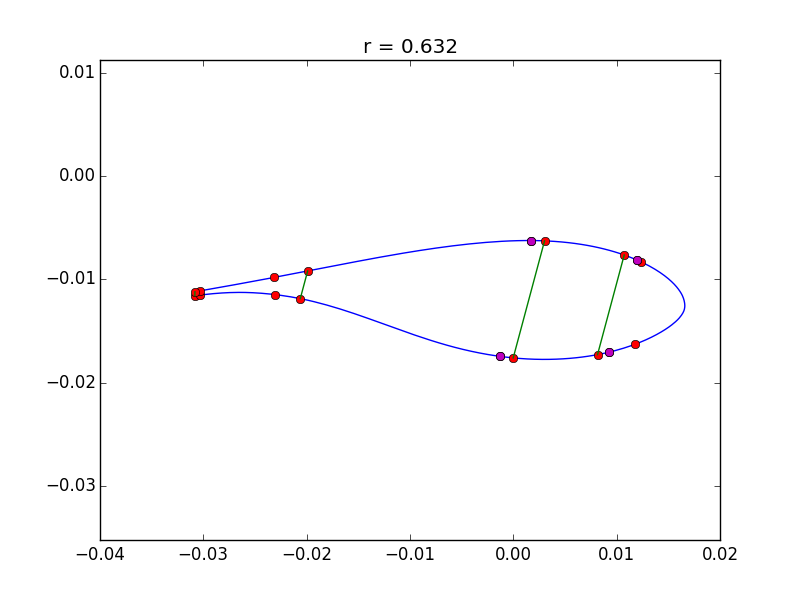
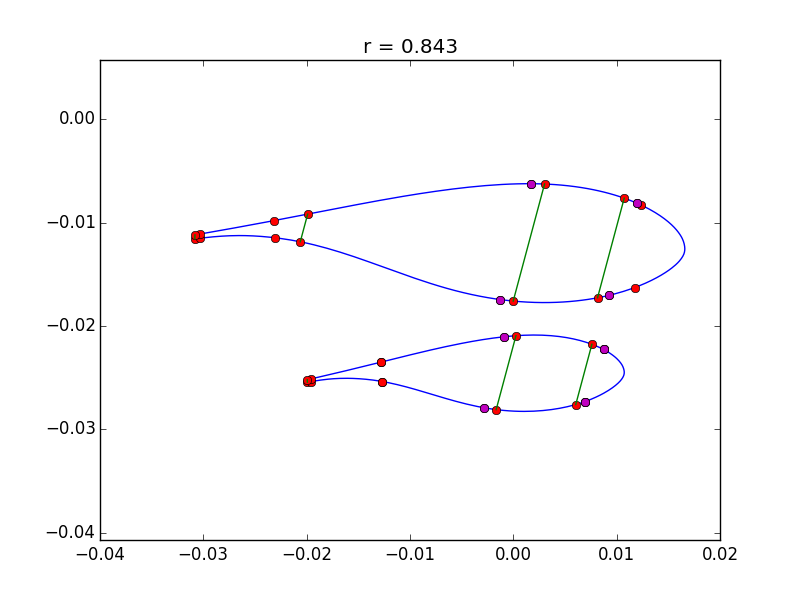
dont plot invalid webs

diff --git a/fusedwind/turbine/structure.py b/fusedwind/turbine/structure.py
@@ -778,16 +778,19 @@ class ComputeDPsParam2(object):
             af = afs[i]
             plt.plot(af.points[:, 0], af.points[:, 1], 'b-')
             DP = np.array([af.interp_s(af.s_to_01(s)) for s in self.DPs[i, :]])
+            width = np.diff(self.DPs[i, :])
+            valid = np.ones(DP.shape[0])
+            valid[1:] = width > self.min_width
             for d in DP:
                 plt.plot(d[0], d[1], 'ro')
             for d in DP[self.cap_DPs, :]:
                 plt.plot(d[0], d[1], 'mo')
             for web_ix in self.web_def:
-                plt.plot(DP[[web_ix[0], web_ix[1]]][:, 0],
-                         DP[[web_ix[0], web_ix[1]]][:, 1], 'g')
+                if valid[web_ix].all():
+                    plt.plot(DP[[web_ix[0], web_ix[1]]][:, 0],
+                             DP[[web_ix[0], web_ix[1]]][:, 1], 'g')
 
         plt.axis('equal')
-        plt.show()
 
     def plot_topview(self, coordsys='rotor', ifig=None):
 

diff --git a/fusedwind/examples/turbine/blade_struct_param2.py b/fusedwind/examples/turbine/blade_struct_param2.py
@@ -8,6 +8,7 @@ structural geometry using PGL and the ComputeDPsParam2 class
 import pkg_resources
 import os
 import numpy as np
+import matplotlib.pylab as plt
 
 from PGL.components.loftedblade import LoftedBladeSurface
 from PGL.main.planform import read_blade_planform, redistribute_planform
@@ -89,5 +90,8 @@ st.w03pos += np.linspace(0.5, 0.0, 20) / 86.366
 st.compute()
 
 st.plot(coordsys='rotor', ifig=3, isec=12)
+st.plot(ifig=3, coordsys='rotor', isec=16)
+plt.show()
+
 
 # --- 6 ---

diff --git a/docs/turbine_geometry_and_structure.rst b/docs/turbine_geometry_and_structure.rst
@@ -313,17 +313,17 @@ to inspect the final structure, which are shown in the below figures.
    Blade structure generated using the ``ComputeDPsParam2`` class viewed from the tip
    in the rotor coordinate system.
 
-
-
 Note that the third shear web is parallel to the main laminate and intersects the
-trailing edge panel at r/R=0.65, where it should stop.
-However, the current parameterisation does not allow for discontinuous DP definitions
-in the spanwise direction, so instead you would have to set the web thickness to zero.
-To avoid overlapping DPs, a check is made for this in the code.
+trailing edge panel at approximately *r/R*=0.65, where it should stop.
+Although the current parameterisation does not allow for discontinuous DP definitions
+in the spanwise direction, this can be handled by collapsing the web DP onto the trailing edge panel DP.
+However, this requires that the meshing code used has a check for zero thickness
+regions and removes these before meshing.
+If this capability is not available, set the parameter ``min_width`` to something
+greater than zero.
 By default the ``te_DPs` and ``cap_DPs`` are specified as so-called ``dominant_DPs``,
-which means that other DPs are moved to avoid overlap.
-So in the case of the TE web, the web DPs are shifted towards the cap by a default length
-of 2% chord.
+which means that other DPs are moved to avoid negative widths.
+For DPs not part of the ``dominant_DPs`` coliding DPs are moved to the mid-point between the two.
 
 .. _bladestructure_param2-top-fig:
 
@@ -352,3 +352,11 @@ with the following effect:
 
      Plot of a blade structure with the main laminates moved forward and angled 15 degrees
      relative to the rotor plane.
+
+In the above figure, it is also evident that some regions have collapsed to zero
+width on the outer section.
+The leading panels between the spar caps and the leading edge reinforcement have
+been displaced by the spar caps, and the similarly the trailing edge web DPs
+have collapsed onto the trailing edge DPs.
+Note that the plotting functions in ``ComputeDPsParam2`` plots only valid
+regions, although they still exist in the parameterisation.
